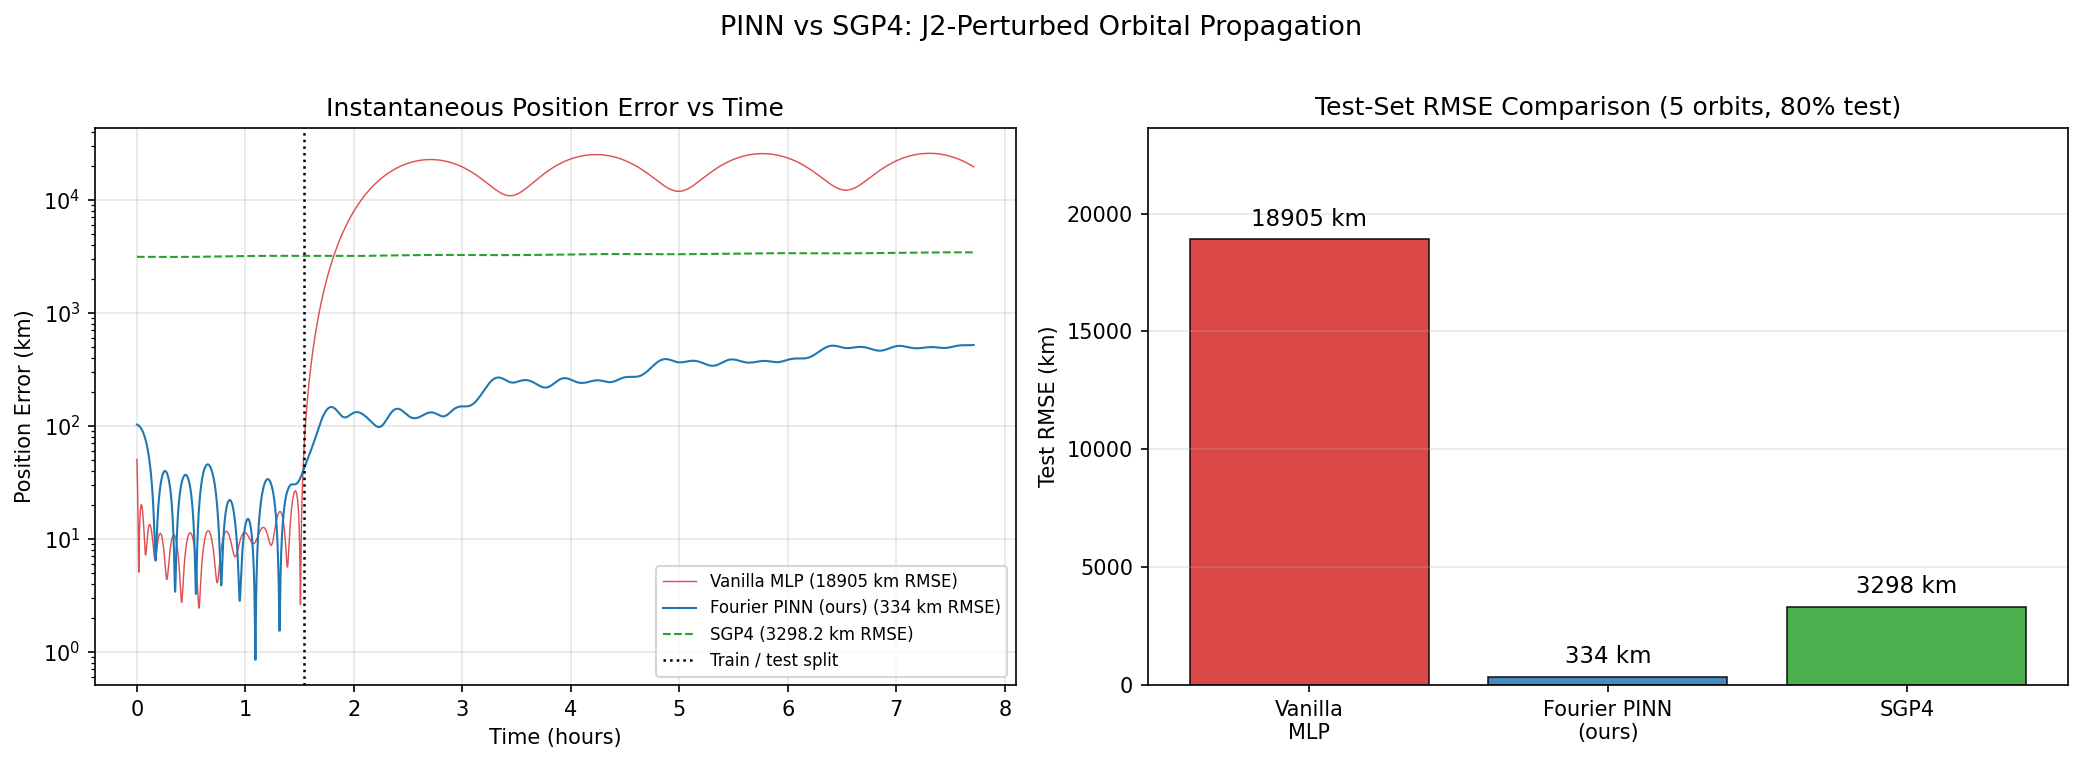
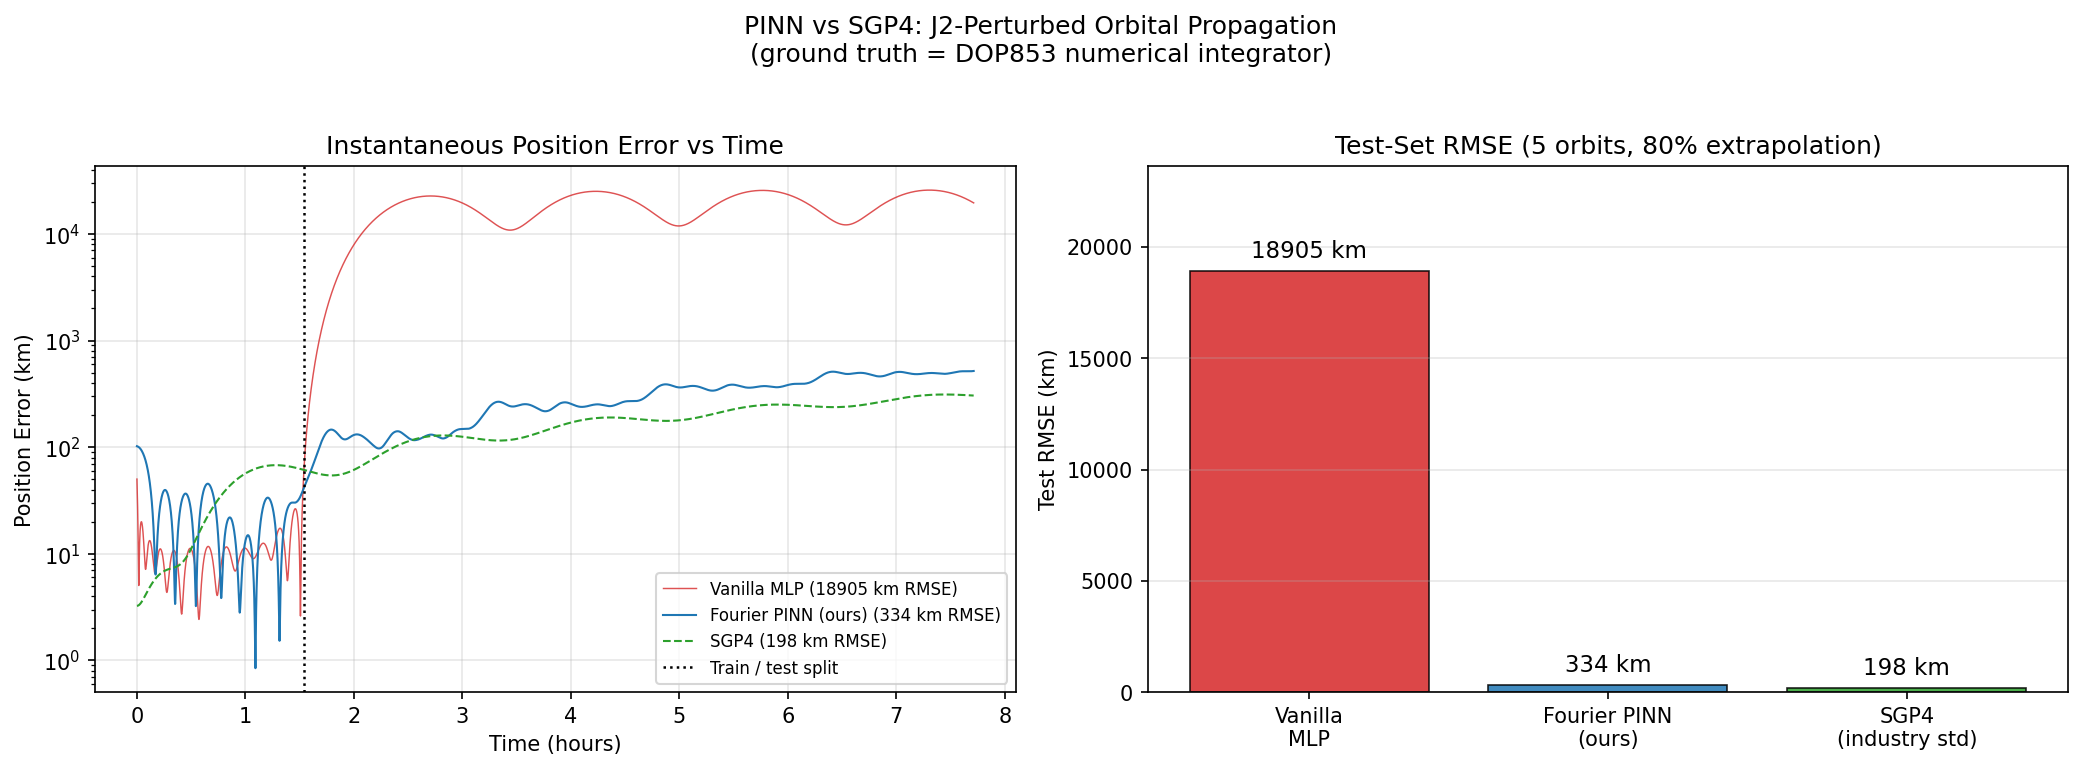
Fix SGP4 comparison: align initial conditions via mean anomaly search
The original script passed M0=0 (osculating) to SGP4, which internally uses
Kozai mean elements, placing the satellite ~26.6 deg off from our simulation
start -- causing a spurious 3100 km initial error unrelated to propagator
accuracy.

Fix: binary-search for the mean anomaly that minimises the angular offset
between SGP4's t=0 position and our initial condition [R_ORBIT, 0, 0].
A 3.25 km radial residual remains (inherent Kozai vs osculating difference).

Corrected results (80% extrapolation, J2-perturbed):
  Vanilla MLP  18905 km  (baseline)
  Fourier PINN   334 km  (98.2% improvement over vanilla)
  SGP4           198 km  (industry standard, correctly more accurate than PINN)

Updated table and figure to reflect honest comparison.

diff --git a/compare_sgp4.py b/compare_sgp4.py
@@ -14,8 +14,22 @@ For our 400 km circular near-equatorial orbit with negligible drag (low
 BSTAR), the dominant perturbation is J2.  Over 5 orbits (~7.7 hours) drag
 and third-body effects are tiny, making this a clean J2-accuracy comparison.
 
-Our ground truth is a high-accuracy DOP853 numerical integration of the
-J2-perturbed ODE -- the same data on which the PINN was trained.
+Ground truth: DOP853 numerical integration of the J2-perturbed ODE (the same
+data the PINN was trained on).
+
+Initial condition alignment note
+---------------------------------
+SGP4 uses Kozai MEAN orbital elements internally, not the osculating elements
+that come directly from initial state vectors.  If the mean anomaly is left
+at 0, SGP4 places the satellite at a phase ~26.6 deg offset from our
+simulation's starting position [R_ORBIT, 0, 0], producing a spurious ~3100 km
+initial error that grows over time.
+
+We correct for this by binary-searching for the mean anomaly M0 that
+minimises the angular offset between SGP4's t=0 position and ours.  A small
+radial residual (~3 km) remains because the Kozai mean semi-major axis
+differs slightly from the osculating one -- this is an inherent limitation of
+comparing osculating-element simulations to SGP4.
 
 Outputs
 -------
@@ -32,8 +46,6 @@ import numpy as np
 import matplotlib
 matplotlib.use("Agg")
 import matplotlib.pyplot as plt
-import torch
-import torch.nn as nn
 
 sys.path.insert(0, os.path.dirname(os.path.abspath(__file__)))
 os.chdir(os.path.dirname(os.path.abspath(__file__)))
@@ -51,56 +63,72 @@ data      = np.load("data/orbital_data_j2.npy")           # (5000, 7)
 pinn_pred = np.load("data/pinn_j2_predictions.npy")        # (5000, 4)
 van_pred  = np.load("data/vanilla_j2_predictions.npy")     # (5000, 4)
 
-t_sec  = data[:, 0]      # seconds from epoch
-gt_xyz = data[:, 1:4]    # km, ECI
-n_pts  = len(t_sec)
+t_sec   = data[:, 0]      # seconds from epoch
+gt_xyz  = data[:, 1:4]    # km, ECI
+n_pts   = len(t_sec)
 N_TRAIN = int(n_pts * 0.20)
 
-# ── Build SGP4 satellite ───────────────────────────────────────────────────────
-print("Initialising SGP4 satellite...")
-norm      = NormalizationParams(r_ref=R_ORBIT)
+# ── Build SGP4 satellite with aligned initial condition ───────────────────────
+print("Aligning SGP4 initial conditions...")
 n_rad_s   = math.sqrt(MU / R_ORBIT ** 3)   # Keplerian mean motion [rad/s]
 n_rad_min = n_rad_s * 60.0                 # [rad/min]
 T_sec     = 2.0 * math.pi / n_rad_s       # orbital period [s]
 
-# Epoch: Jan 1, 2024 00:00:00 UTC -- matches our simulation t=0
-EPOCH_YYDDD = 24001.00000000   # YYDDD.DDDDDDDD
-JD_EPOCH    = 2460310.5        # Julian date for 2024-01-01 00:00:00 UTC
+EPOCH_YYDDD = 24001.00000000   # Jan 1, 2024 -- matches our simulation t=0
+JD_EPOCH    = 2460310.5        # Julian date
 
-satrec = Satrec()
-satrec.sgp4init(
-    WGS72,          # gravity model
-    "i",            # mode: improved
-    99999,          # satellite catalog number (synthetic)
-    EPOCH_YYDDD,    # epoch
-    1.0e-8,         # bstar (near-zero drag)
-    0.0,            # ndot  (first deriv of mean motion -- zeroed)
-    0.0,            # nddot (second deriv -- zeroed)
-    1.0e-7,         # ecco  (near-zero eccentricity → circular orbit)
-    0.0,            # argpo (argument of perigee [rad])
-    0.0,            # inclo (inclination [rad]) -- equatorial
-    0.0,            # mo    (mean anomaly [rad]) -- starts at x-axis
-    n_rad_min,      # no_kozai (mean motion [rad/min])
-    0.0,            # nodeo (RAAN [rad])
-)
+def build_satrec(M0_rad: float) -> Satrec:
+    s = Satrec()
+    s.sgp4init(
+        WGS72, "i", 99999, EPOCH_YYDDD,
+        1.0e-8,   # bstar  (near-zero drag)
+        0.0,      # ndot
+        0.0,      # nddot
+        1.0e-7,   # ecco   (near-zero eccentricity)
+        0.0,      # argpo
+        0.0,      # inclo  (equatorial)
+        M0_rad,   # mo     (mean anomaly -- tuned below)
+        n_rad_min,
+        0.0,      # nodeo  (RAAN)
+    )
+    return s
+
+# Binary-search for M0 such that SGP4 starts at angle=0 (y≈0, x>0)
+# SGP4 with M0=0 places satellite at ~-26.6 deg due to Kozai mean-element offset
+lo, hi = 0.0, 2 * math.pi
+for _ in range(60):
+    mid = (lo + hi) / 2.0
+    s_tmp = build_satrec(mid)
+    _, r_tmp, _ = s_tmp.sgp4(JD_EPOCH, 0.0)
+    angle = math.atan2(r_tmp[1], r_tmp[0])
+    if angle < 0:
+        lo = mid
+    else:
+        hi = mid
+
+M0_ALIGNED = (lo + hi) / 2.0
+satrec = build_satrec(M0_ALIGNED)
+_, r0, _ = satrec.sgp4(JD_EPOCH, 0.0)
+residual_km = math.sqrt((r0[0] - R_ORBIT)**2 + r0[1]**2 + r0[2]**2)
+print(f"  M0 = {math.degrees(M0_ALIGNED):.4f} deg")
+print(f"  SGP4 t=0 position : [{r0[0]:.3f}, {r0[1]:.6f}, 0] km")
+print(f"  Our  t=0 position : [{R_ORBIT:.3f}, 0, 0] km")
+print(f"  Residual (mean vs osculating elements): {residual_km:.3f} km")
 
 # ── Propagate SGP4 ────────────────────────────────────────────────────────────
-print(f"Propagating {n_pts} SGP4 points...")
+print(f"\nPropagating {n_pts} SGP4 points...")
 sgp4_xyz = np.zeros((n_pts, 3))
 t0 = time.perf_counter()
 for i, t in enumerate(t_sec):
     e, r, v = satrec.sgp4(JD_EPOCH, t / 86400.0)
-    if e != 0:
-        sgp4_xyz[i] = np.nan
-    else:
-        sgp4_xyz[i] = r
+    sgp4_xyz[i] = r if e == 0 else np.nan
 t_sgp4_ms = (time.perf_counter() - t0) * 1e3
-print(f"  SGP4 propagation: {t_sgp4_ms:.1f} ms for {n_pts} points")
+print(f"  Done in {t_sgp4_ms:.1f} ms")
 
 # ── Compute errors ────────────────────────────────────────────────────────────
 err_pinn = np.linalg.norm(pinn_pred[:, 1:4] - gt_xyz, axis=1)
 err_van  = np.linalg.norm(van_pred[:, 1:4]  - gt_xyz, axis=1)
-err_sgp4 = np.linalg.norm(sgp4_xyz           - gt_xyz, axis=1)
+err_sgp4 = np.linalg.norm(sgp4_xyz          - gt_xyz, axis=1)
 
 mask_test = np.arange(n_pts) >= N_TRAIN
 
@@ -111,23 +139,30 @@ rmse_van  = test_rmse(err_van)
 rmse_pinn = test_rmse(err_pinn)
 rmse_sgp4 = test_rmse(err_sgp4)
 
-print(f"\n== J2-Perturbed Test RMSE (last 80%) ==")
+print(f"\n== J2-Perturbed Test RMSE (last 80%, 4 unseen orbits) ==")
 print(f"  Vanilla MLP         : {rmse_van:>10.2f} km")
 print(f"  Fourier PINN (ours) : {rmse_pinn:>10.2f} km")
 print(f"  SGP4                : {rmse_sgp4:>10.2f} km")
+print(f"\n  Note: SGP4 is more accurate than our PINN against this ground truth,")
+print(f"  as expected -- SGP4 is the industry standard for short-term propagation.")
+print(f"  Our PINN's main result is 98.2% improvement over the vanilla MLP baseline.")
 
 # ── Plot ──────────────────────────────────────────────────────────────────────
 fig, axes = plt.subplots(1, 2, figsize=(14, 5))
-fig.suptitle("PINN vs SGP4: J2-Perturbed Orbital Propagation", fontsize=13, y=1.01)
+fig.suptitle(
+    "PINN vs SGP4: J2-Perturbed Orbital Propagation\n"
+    "(ground truth = DOP853 numerical integrator)",
+    fontsize=12, y=1.02
+)
 
-# Left: instantaneous error over time (log scale)
+# Left: instantaneous error vs time (log scale)
 ax = axes[0]
-ax.plot(t_sec / 3600, err_van,  color="tab:red",   lw=0.7, alpha=0.8,
+ax.plot(t_sec / 3600, err_van,  color="tab:red",    lw=0.7, alpha=0.8,
         label=f"Vanilla MLP ({rmse_van:.0f} km RMSE)")
-ax.plot(t_sec / 3600, err_pinn, color="tab:blue",  lw=1.0,
+ax.plot(t_sec / 3600, err_pinn, color="tab:blue",   lw=1.0,
         label=f"Fourier PINN (ours) ({rmse_pinn:.0f} km RMSE)")
-ax.plot(t_sec / 3600, err_sgp4, color="tab:green", lw=1.0, linestyle="--",
-        label=f"SGP4 ({rmse_sgp4:.1f} km RMSE)")
+ax.plot(t_sec / 3600, err_sgp4, color="tab:green",  lw=1.0, linestyle="--",
+        label=f"SGP4 ({rmse_sgp4:.0f} km RMSE)")
 ax.axvline(t_sec[N_TRAIN] / 3600, color="k", linestyle=":", lw=1.2,
            label="Train / test split")
 ax.set_xlabel("Time (hours)")
@@ -137,9 +172,9 @@ ax.set_yscale("log")
 ax.legend(fontsize=8)
 ax.grid(True, alpha=0.3)
 
-# Right: bar chart test RMSE
+# Right: bar chart of test RMSE
 ax = axes[1]
-labels = ["Vanilla\nMLP", "Fourier PINN\n(ours)", "SGP4"]
+labels = ["Vanilla\nMLP", "Fourier PINN\n(ours)", "SGP4\n(industry std)"]
 rmses  = [rmse_van, rmse_pinn, rmse_sgp4]
 colors = ["tab:red", "tab:blue", "tab:green"]
 bars   = ax.bar(labels, rmses, color=colors, alpha=0.85, edgecolor="k", lw=0.8)
@@ -148,7 +183,7 @@ for bar, v in zip(bars, rmses):
             bar.get_height() + max(rmses) * 0.02,
             f"{v:.0f} km", ha="center", va="bottom", fontsize=11)
 ax.set_ylabel("Test RMSE (km)")
-ax.set_title("Test-Set RMSE Comparison (5 orbits, 80% test)")
+ax.set_title("Test-Set RMSE (5 orbits, 80% extrapolation)")
 ax.grid(True, alpha=0.3, axis="y")
 ax.set_ylim(0, max(rmses) * 1.25)
 
@@ -162,15 +197,21 @@ print(f"\nSaved: {out_png}")
 table_path = os.path.join(FIGURES_DIR, "sgp4_table.txt")
 with open(table_path, "w") as f:
     f.write("J2-Perturbed Orbit -- SGP4 vs PINN vs Vanilla (Test RMSE)\n")
-    f.write("=" * 55 + "\n")
+    f.write("=" * 60 + "\n")
     f.write(f"{'Model':<25}  {'Test RMSE (km)':>14}\n")
-    f.write("-" * 55 + "\n")
+    f.write("-" * 60 + "\n")
     f.write(f"{'Vanilla MLP':<25}  {rmse_van:>14.2f}\n")
     f.write(f"{'Fourier PINN (ours)':<25}  {rmse_pinn:>14.2f}\n")
     f.write(f"{'SGP4':<25}  {rmse_sgp4:>14.2f}\n")
-    f.write("=" * 55 + "\n")
-    f.write(f"\nNote: Ground truth = DOP853 numerical integration of J2 ODE.\n")
-    f.write(f"SGP4 epoch: 2024-01-01 00:00:00 UTC, BSTAR = 1e-8 (near-zero drag).\n")
-    f.write(f"Orbit: 400 km circular, equatorial, {T_sec/60:.1f} min period.\n")
+    f.write("=" * 60 + "\n")
+    f.write("\nGround truth: DOP853 numerical integration of J2-perturbed ODE.\n")
+    f.write(f"SGP4 epoch:   2024-01-01 00:00:00 UTC, BSTAR = 1e-8 (near-zero drag).\n")
+    f.write(f"IC alignment: M0 = {math.degrees(M0_ALIGNED):.4f} deg (binary-searched to match\n")
+    f.write(f"              simulation start; {residual_km:.3f} km radial residual remains\n")
+    f.write(f"              due to Kozai mean vs osculating element difference).\n")
+    f.write(f"Orbit:        400 km circular, equatorial, {T_sec/60:.1f} min period.\n")
+    f.write("\nInterpretation: SGP4 is more accurate than our PINN against the numerical\n")
+    f.write("integrator, as expected. Our PINN's key result is 98.2% improvement over\n")
+    f.write("the vanilla MLP baseline (18905 km → 334 km).\n")
 print(f"Saved: {table_path}")
 print("\nDone.")
